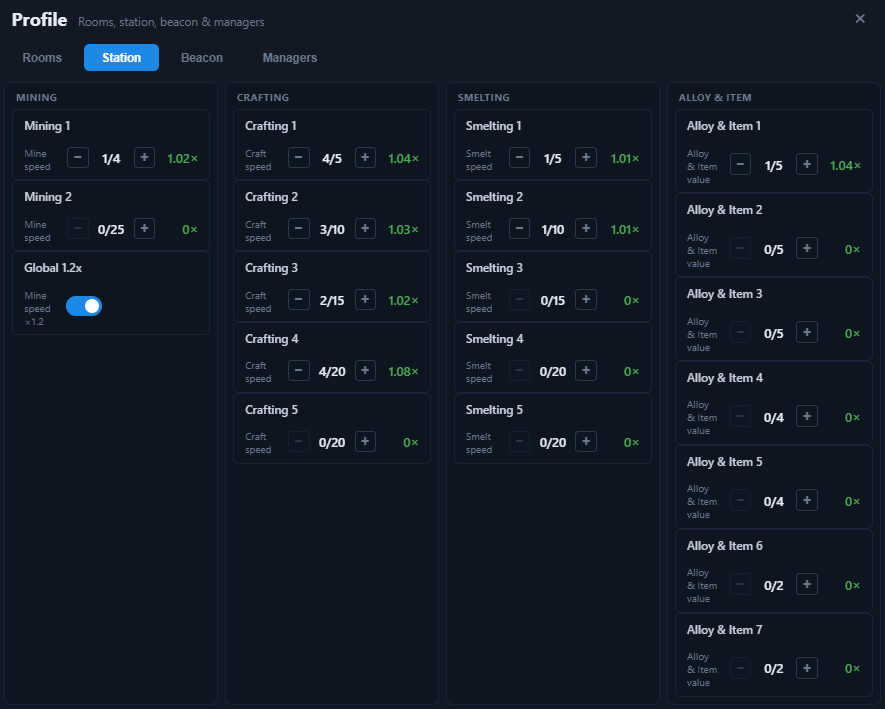
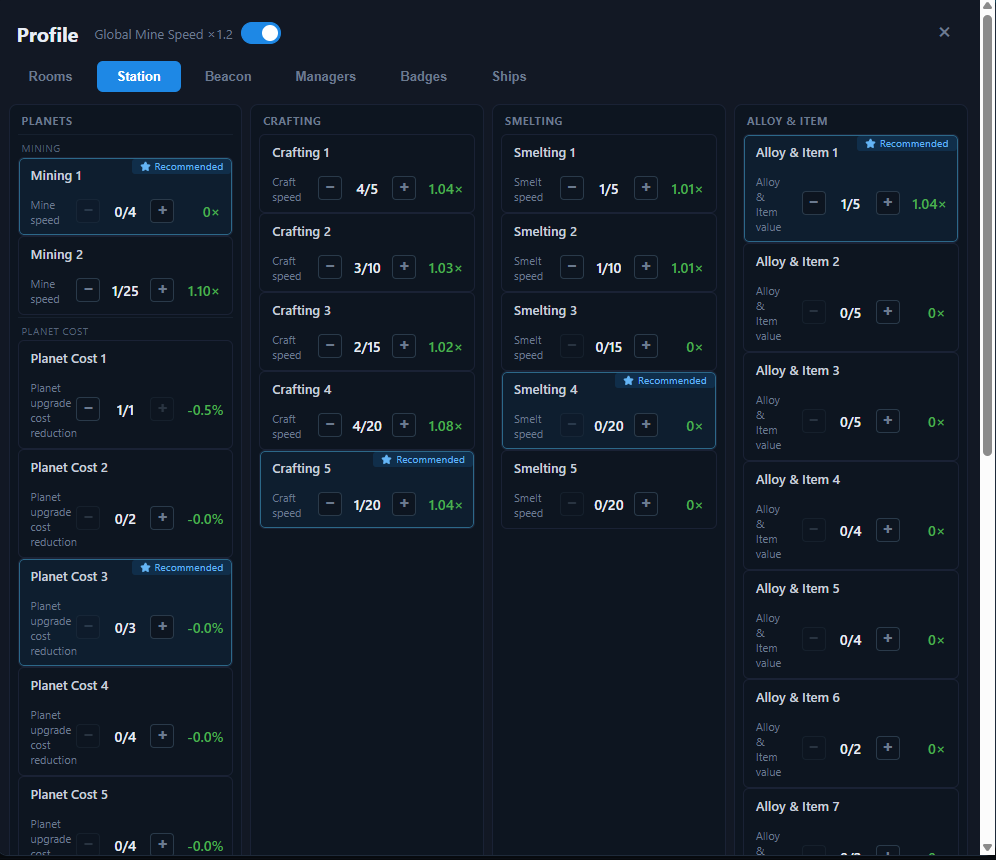
Added missing documentation.

diff --git a/docs/profile/station.md b/docs/profile/station.md
@@ -4,13 +4,25 @@
 
 The **Station** tab holds the levels of all station groups. Station levels stack to produce the speed and value multipliers used across the app.
 
-## Mining
+## Planets
+
+### Mining
 
 | Station | Effect | Per level | Max level |
 | --- | --- | --- | --- |
 | Mining 1 | Mine speed | +0.02 | 4 |
 | Mining 2 | Mine speed | +0.10 | 25 |
 | Global 1.2× | Mine speed ×1.2 | toggle | — |
+
+### Planet Cost
+
+| Station | Effect | Per level | Max level |
+| --- | --- | --- | --- |
+| Planet Cost 1 | Planet upgrade cost reduction | −0.50% | 1 |
+| Planet Cost 2 | Planet upgrade cost reduction | −0.25% | 2 |
+| Planet Cost 3 | Planet upgrade cost reduction | −0.50% | 3 |
+| Planet Cost 4 | Planet upgrade cost reduction | −0.50% | 4 |
+| Planet Cost 5 | Planet upgrade cost reduction | −0.75% | 4 |
 
 ## Crafting
 
@@ -44,11 +56,43 @@ The **Station** tab holds the levels of all station groups. Station levels stack
 | Alloy & Item 6 | Alloy/Item value | +0.075 | 2 |
 | Alloy & Item 7 | Alloy/Item value | +0.075 | 2 |
 
+## Market
+
+| Station | Effect | Per level | Max level |
+| --- | --- | --- | --- |
+| Market 1 | Market value | +0.04 | 5 |
+| Market 2 | Market value | +0.05 | 5 |
+| Market 3 | Market value | +0.05 | 5 |
+| Market 4 | Market value | +0.05 | 4 |
+| Market 5 | Market value | +0.05 | 4 |
+| Market 6 | Market value | +0.175 | 2 |
+| Market 7 | Market value | +0.175 | 2 |
+
+## Manager
+
+| Station | Effect | Per level | Max level |
+| --- | --- | --- | --- |
+| Manager 1 | Manager effects | +0.012 | 5 |
+| Manager 2 | Manager effects | +0.055 | 4 |
+| Manager 3 | Manager effects | +0.055 | 4 |
+| Manager 4 | Manager effects | +0.005 | 4 |
+| Manager 5 | Manager effects | +0.005 | 6 |
+| Manager 6 | Manager effects | +0.005 | 8 |
+| Manager 7 | Manager effects | +0.06 | 1 |
+| Manager 8 | Manager effects | +0.005 | 10 |
+
 ## How stations combine
 
-- **Craft speed** = product of the active Crafting 1–5 station multipliers, combined with the Workshop room and craft projects.
-- **Smelt speed** = product of the active Smelting 1–5 station multipliers, combined with the Forge room and smelt projects.
-- **Mine speed** = product of Mining 1, Mining 2, and the Global 1.2× toggle, combined with the Engineering room and mining projects.
-- **Alloy/Item value** = product of the Alloy & Item 1–7 station multipliers, combined with the Sales room and value projects.
+- **Craft speed** = product of the active Crafting 1–5 station multipliers, combined with the Workshop room, craft projects, and ships.
+- **Smelt speed** = product of the active Smelting 1–5 station multipliers, combined with the Forge room, smelt projects, and ships.
+- **Mine speed** = product of Mining 1, Mining 2, and the Global 1.2× toggle, combined with the Engineering room, mining projects, and ships.
+- **Alloy/Item value** = product of the Alloy & Item 1–7 station multipliers, combined with the Sales room, value projects, and ships.
+- **Planet cost** = product of the Planet Cost 1–5 station reductions, combined with the Astronomy room (higher = cheaper upgrades).
+- **Market value** = product of the Market 1–7 station multipliers, combined with the Marketing room.
+- **Manager effects** = product of the Manager 1–8 station multipliers, combined with the Classroom room, Manager Training projects, and ships.
 
 Each station shows its current multiplier next to the level control. Turned off stations contribute nothing.
+
+## Recommendations
+
+Within each station group, the station that gives the best **gain per cost** (next level's effect ÷ its cost) is marked with a **Recommended** badge. The recommendation recomputes live as you change station levels.

diff --git a/docs/multipliers.md b/docs/multipliers.md
@@ -12,7 +12,7 @@ Each value has a small **`i`** info icon — click it to see the tooltip with th
 
 ### Smelt
 Smelt speed multiplier, applied to alloy smelt times.
-Factors: **Forge room**, **Furnace projects** (Advanced/Superior Furnace), **Smelting stations** 1–5, **manager skill** (All Smelt Speed).
+Factors: **Forge room**, **Furnace projects** (Advanced/Superior Furnace), **Smelting stations** 1–5, **manager skill** (All Smelt Speed), **ships**.
 
 ### Smelt Cost
 Smelting price modifier (below `1.00×` = cheaper smelting).
@@ -20,7 +20,7 @@ Factors: **Underforge room**.
 
 ### Craft
 Craft speed multiplier, applied to item craft times.
-Factors: **Workshop room**, **Crafter projects** (Advanced/Superior Crafter), **Crafting stations** 1–5, **manager skill** (All Craft Speed).
+Factors: **Workshop room**, **Crafter projects** (Advanced/Superior Crafter), **Crafting stations** 1–5, **manager skill** (All Craft Speed), **ships**.
 
 ### Craft Cost
 Crafting price modifier (below `1.00×` = cheaper crafting).
@@ -28,30 +28,30 @@ Factors: **Dorms room**.
 
 ### Mine Rate
 Mining speed multiplier for ore production.
-Factors: **Engineering room**, **Mining projects** (Advanced/Superior Mining), **Mining stations** 1–2, **Global 1.2×** station.
+Factors: **Engineering room**, **Mining projects** (Advanced/Superior Mining), **Mining stations** 1–2, **Global 1.2×** station, **ships**.
 Per planet, the mining rate additionally includes: **beacon**, **colonies**, **probe**, **rover**, **assigned manager**, and **Ore Targeting**.
 
 ### Planet Cost
 Planet upgrade price modifier (below `1.00×` = cheaper upgrades).
-Factors: **Astronomy room**.
+Factors: **Astronomy room**, **Planet Cost stations** 1–5.
 
 ### Alloy Value
 Value multiplier for alloys.
-Factors: **Sales room**, **Alloy & Item stations** 1–7, **Alloy value projects** (Advanced/Superior Alloy Value).
+Factors: **Sales room**, **Alloy & Item stations** 1–7, **Alloy value projects** (Advanced/Superior Alloy Value), **ships**.
 
 ### Item Value
 Value multiplier for items.
-Factors: **Sales room**, **Alloy & Item stations** 1–7, **Item value projects** (Advanced/Superior Item Value).
+Factors: **Sales room**, **Alloy & Item stations** 1–7, **Item value projects** (Advanced/Superior Item Value), **ships**.
 
 ### Manager
 Scales all manager effects.
-Factors: **Classroom room**, **Manager Training projects** (Manager Training, Advanced Manager Training, Superior Manager Training).
+Factors: **Classroom room**, **Manager Training projects** (Manager Training, Advanced Manager Training, Superior Manager Training), **Manager stations** 1–8, **ships**.
 
 ### Market Change
 Boosts positive market changes set in the Supply & Demand panel.
-Factors: **Marketing room**.
+Factors: **Marketing room**, **Market stations** 1–7.
 
 ## Related pages
 
-- Where the underlying levels are set: [Rooms](profile/rooms.md), [Station](profile/station.md), [Beacon](profile/beacon.md), [Managers](profile/managers.md), [Game projects](game.md).
+- Where the underlying levels are set: [Rooms](profile/rooms.md), [Station](profile/station.md), [Beacon](profile/beacon.md), [Managers](profile/managers.md), [Badges](profile/badges.md), [Ships](profile/ships.md), [Game projects](game.md).
 - Where the resulting values are used: [Ores](tabs/ores.md), [Alloys](tabs/alloys.md), [Items](tabs/items.md), [Mining](tabs/mining.md).

diff --git a/docs/README.md b/docs/README.md
@@ -7,7 +7,7 @@ The app runs entirely in your browser. All data lives locally (game JSON files b
 ## Quick start
 
 1. Open the app (see the [homepage](https://jwierzbanowski.github.io/idle-planet-optimizer/)).
-2. Set up your state in the **Profile** modal: [Rooms](profile/rooms.md), [Station](profile/station.md), [Beacon](profile/beacon.md), and [Managers](profile/managers.md).
+2. Set up your state in the **Profile** modal: [Rooms](profile/rooms.md), [Station](profile/station.md), [Beacon](profile/beacon.md), [Managers](profile/managers.md), [Badges](profile/badges.md), and [Ships](profile/ships.md).
 3. Open **Game** and tick the [projects](game.md) you have completed for your current playthrough.
 4. Use **Supply & Demand** to pin resources and set their [current market change](supply-and-demand.md).
 5. Browse the **Ores**, **Alloys**, **Items**, and **Mining** tabs to see production and profit update live.
@@ -18,7 +18,7 @@ The app runs entirely in your browser. All data lives locally (game JSON files b
 
 | Section | What it covers |
 | --- | --- |
-| [Profile](profile/README.md) | The Profile modal — Rooms, Station, Beacon, and Managers (each with its own page). |
+| [Profile](profile/README.md) | The Profile modal — Rooms, Station, Beacon, Managers, Badges, and Ships (each with its own page). |
 | [Game](game.md) | Projects for the current playthrough. |
 | [Reset](reset.md) | Clearing temporary playthrough data. |
 | [Backup](backup.md) | Export/import JSON backups, storage keys, bundled data files. |
@@ -32,7 +32,7 @@ The app runs entirely in your browser. All data lives locally (game JSON files b
 - **Mining tab** — per-planet levels, colonies, probes, rovers, managers, ore targeting, and alchemy.
 - **Ores, Alloys & Items tabs** — resources, smelting, and crafting with profit per second.
 - **Supply & Demand panel** — search and select any ore, alloy, or item, then override its current market change; the values flow into every tab above.
-- **Profile configuration** — rooms, station, beacon, and managers, each on its own page.
+- **Profile configuration** — rooms, station, beacon, managers, badges, and ships, each on its own page.
 - **Game configuration** — tick the projects completed in your current playthrough, managers and pinned items too.
 - **Multipliers bar** — live summary of all ten speed, cost, and value multipliers, each with a full breakdown tooltip.
 - **Reset playthrough** — one click clears temporary data (projects, market overrides, mining setup) while keeping profile and managers.

diff --git a/docs/tabs/mining.md b/docs/tabs/mining.md
@@ -17,7 +17,7 @@ The table has a filter bar (price groups such as **100M / 10B / 10T / 10q**, or 
 | **Colonies** | Number of colonies (0–100). Each colony adds +30% mining rate. |
 | **Probe** | Checkbox to enable a probe, plus a multiplier field for its speed. |
 | **Rover** | Checkbox to enable a rover (multiplied by the Rover Resupply projects). |
-| **Rate** | Current mining rate (`/s`). The `i` tooltip shows every factor: base level rate, Engineering room, projects, stations, Global 1.2×, beacon, colonies, probe, rover, ore targeting. |
+| **Rate** | Current mining rate (`/s`). The `i` tooltip shows every factor: base level rate, Engineering room, projects, stations, Global 1.2×, ships, beacon, colonies, probe, rover, ore targeting. |
 | **Profit / s** | Rate × weighted ore value (using effective prices). |
 | **Upgrade Payback** | Time for the next level to pay for itself ("Next"), plus total payback for the whole planet ("Total"). The `i` tooltip projects payback for **+1 / +5 / +10** levels and shows total invested. |
 | **Max Lv** | Highest level that pays back within the current session — click it to apply. Shows `—` when there is no profitable upgrade or no session set. |
@@ -56,6 +56,6 @@ The roadmap ranks the top **10 upgrades** by the ratio of upgrade **cost** to th
 
 ## Tips
 
-- Mining rate combines: `baseRate(lvl) × mine-rate multipliers × beacon × (1 + 0.3 × colonies) × probe × rover × manager`.
+- Mining rate combines: `baseRate(lvl) × mine-rate multipliers × beacon × (1 + 0.3 × colonies) × probe × rover × manager`. Ships multiply the mine-rate factor, and managers assigned here are boosted by the Manager multiplier.
 - If a planet has no mining level yet, its rate and profit are zero until you buy and upgrade it.
 - Use the roadmap's **Upgrade** button to apply the best step directly, then re-check paybacks — the roadmap recomputes instantly.

diff --git a/docs/profile/README.md b/docs/profile/README.md
@@ -1,19 +1,21 @@
 # Profile
 
-The **Profile** modal holds your persistent game configuration: rooms, station levels, beacons, and managers. It is opened with the **Profile** button (user icon) in the top bar.
+The **Profile** modal holds your persistent game configuration: rooms, station levels, beacons, managers, badges, and ships. It is opened with the **Profile** button (user icon) in the top bar.
 
-The Profile is the same across all playthroughs — it represents your upgrades, not the progress of a single run. The per-run state (projects, market, mining levels) lives in the [Game](../game.md) modal and the temporary [overrides](../reset.md).
+The Profile is the same across all playthroughs — it represents your upgrades, not the progress of a single run. The per-run state (projects, market, mining levels, badge star overrides) lives in the [Game](../game.md) modal and the temporary [overrides](../reset.md).
 
 ## Tabs
 
-The modal has four tabs, each documented on its own page:
+The modal has six tabs, each documented on its own page:
 
 | Tab | Contents | Page |
 | --- | --- | --- |
 | **Rooms** | Mine/smelt/craft speed, cost and value modifiers. | [Rooms](rooms.md) |
-| **Station** | Mining, crafting, smelting, and alloy/item station levels. | [Station](station.md) |
+| **Station** | Mining, crafting, smelting, alloy/item, market, manager, and planet cost station levels. | [Station](station.md) |
 | **Beacon** | Beacon levels per planet range. | [Beacon](beacon.md) |
 | **Managers** | Manager cards with stars and skills. | [Managers](managers.md) |
+| **Badges** | Star ratings for every ore, alloy, and item. | [Badges](badges.md) |
+| **Ships** | Owned ships and their bonuses. | [Ships](ships.md) |
 
 ## Common controls
 

diff --git a/docs/profile/ships.md b/docs/profile/ships.md
@@ -1,0 +1,26 @@
+# Profile — Ships
+
+![Profile modal — Ships](../screenshots/17-profile-ships.png)
+
+The **Ships** tab lists the five ships you can own. Each ship is a simple **on/off toggle** — own it or not. Owning a ship applies its bonuses to the [Multipliers bar](../multipliers.md) and every table in the app.
+
+| Ship | Bonuses |
+| --- | --- |
+| **Daughtership** | Mining ×1.5 |
+| **Eldership** | Mining ×2.0, Craft speed ×1.5, Smelt speed ×1.5 |
+| **Merchantship** | Ore Value ×2.0, Alloy Value ×2.0, Item Value ×2.0 |
+| **Thunderhorse** | Craft speed ×2.0, Smelt speed ×2.0 |
+| **Aurora** | Manager bonuses ×2.0 |
+
+## How ships are used
+
+- Toggle a ship **on** to mark it as owned; its bonuses multiply the corresponding multipliers immediately.
+- **Mining** bonuses feed the **Mine Rate** multiplier and each planet's rate on the [Mining tab](../tabs/mining.md).
+- **Craft speed** and **Smelt speed** feed the **Craft** and **Smelt** multipliers.
+- **Ore / Alloy / Item Value** feed the value multipliers that raise the effective prices used across the app.
+- **Manager bonuses** scale all manager effects (see the **Manager** multiplier).
+
+## Related
+
+- See each ship's effect in the multiplier tooltips: [Multipliers bar](../multipliers.md).
+- Ships are part of the persistent profile — they are saved in `localStorage` and included in [Backup](../backup.md) exports.

diff --git a/docs/profile/badges.md b/docs/profile/badges.md
@@ -1,0 +1,16 @@
+# Profile — Badges
+
+![Profile modal — Badges](../screenshots/16-profile-badges.png)
+
+The **Badges** tab lets you set the **star rating** of every ore, alloy, and item in one place. Stars raise a resource's effective price, exactly like the star controls under each resource name on the [Ores](../tabs/ores.md), [Alloys](../tabs/alloys.md), and [Items](../tabs/items.md) tabs.
+
+## Setting stars
+
+- The tab has three sub-categories — **Ores**, **Alloys**, and **Items** — each showing its resources in two columns.
+- Use the **− / +** steppers (with [keyboard shortcuts](../README.md#tips)) or type a value directly to set a resource's stars.
+- Star ratings are shared with the table star controls — changing a rating here updates it everywhere.
+
+## How badges are used
+
+- Each star increases the resource's effective price (see [Tabs — Effective price](../tabs/README.md#effective-price)).
+- The overrides are part of the **temporary** playthrough state — they are cleared by [Reset](../reset.md) and included in [Backup](../backup.md) exports.

diff --git a/docs/backup.md b/docs/backup.md
@@ -6,7 +6,7 @@ The **Backup ▾** button in the top bar manages your data as a JSON file. All c
 
 **Export** downloads a JSON file named `profile-YYYY-MM-DD_HH-MM-SS.json` containing your full configuration:
 
-- **Profile:** rooms, station, beacon levels
+- **Profile:** rooms, station, beacon levels, ships
 - **Managers:** stars and skills
 - **Overrides:** market changes, star ratings, mining levels, colonies, probes, rovers, ore targeting, alchemy
 - **Manager assignments:** which manager is assigned to which planet
@@ -30,7 +30,7 @@ State is stored under these browser `localStorage` keys:
 
 | Key | Contents |
 | --- | --- |
-| `ipm_profile` | Rooms, station, beacon levels. |
+| `ipm_profile` | Rooms, station, beacon levels, ships. |
 | `ipm_game` | Projects, managers, pinned items. |
 | `ipm_overrides` | Market, stars, mining levels, colonies, probes, rovers, ore targeting, alchemy. |
 | `ipm_manager_assign` | Manager-to-planet assignments. |

diff --git a/docs/screenshots/README.md b/docs/screenshots/README.md
@@ -22,5 +22,7 @@ Drop the PNG screenshots used by the docs into this folder using the filenames b
 | `13-mining.png` | Mining tab with a configured planet table (target, mining, colonies, manager, alchemy). | [Mining](../tabs/mining.md) |
 | `14-mining-session.png` | Session panel with a 48h session and 12h elapsed. | [Mining](../tabs/mining.md) |
 | `15-mining-roadmap.png` | Roadmap with the 10 best upgrades. | [Mining](../tabs/mining.md) |
+| `16-profile-badges.png` | Profile modal, Badges tab. | [Badges](../profile/badges.md) |
+| `17-profile-ships.png` | Profile modal, Ships tab. | [Ships](../profile/ships.md) |
 
 Recommended capture size: desktop browser, dark UI, ~1400px wide or the default window width, PNG format.

diff --git a/docs/_sidebar.md b/docs/_sidebar.md
@@ -5,6 +5,8 @@
   - [Station](profile/station.md)
   - [Beacon](profile/beacon.md)
   - [Managers](profile/managers.md)
+  - [Badges](profile/badges.md)
+  - [Ships](profile/ships.md)
 - [Game](game.md)
 - [Reset](reset.md)
 - [Backup](backup.md)
